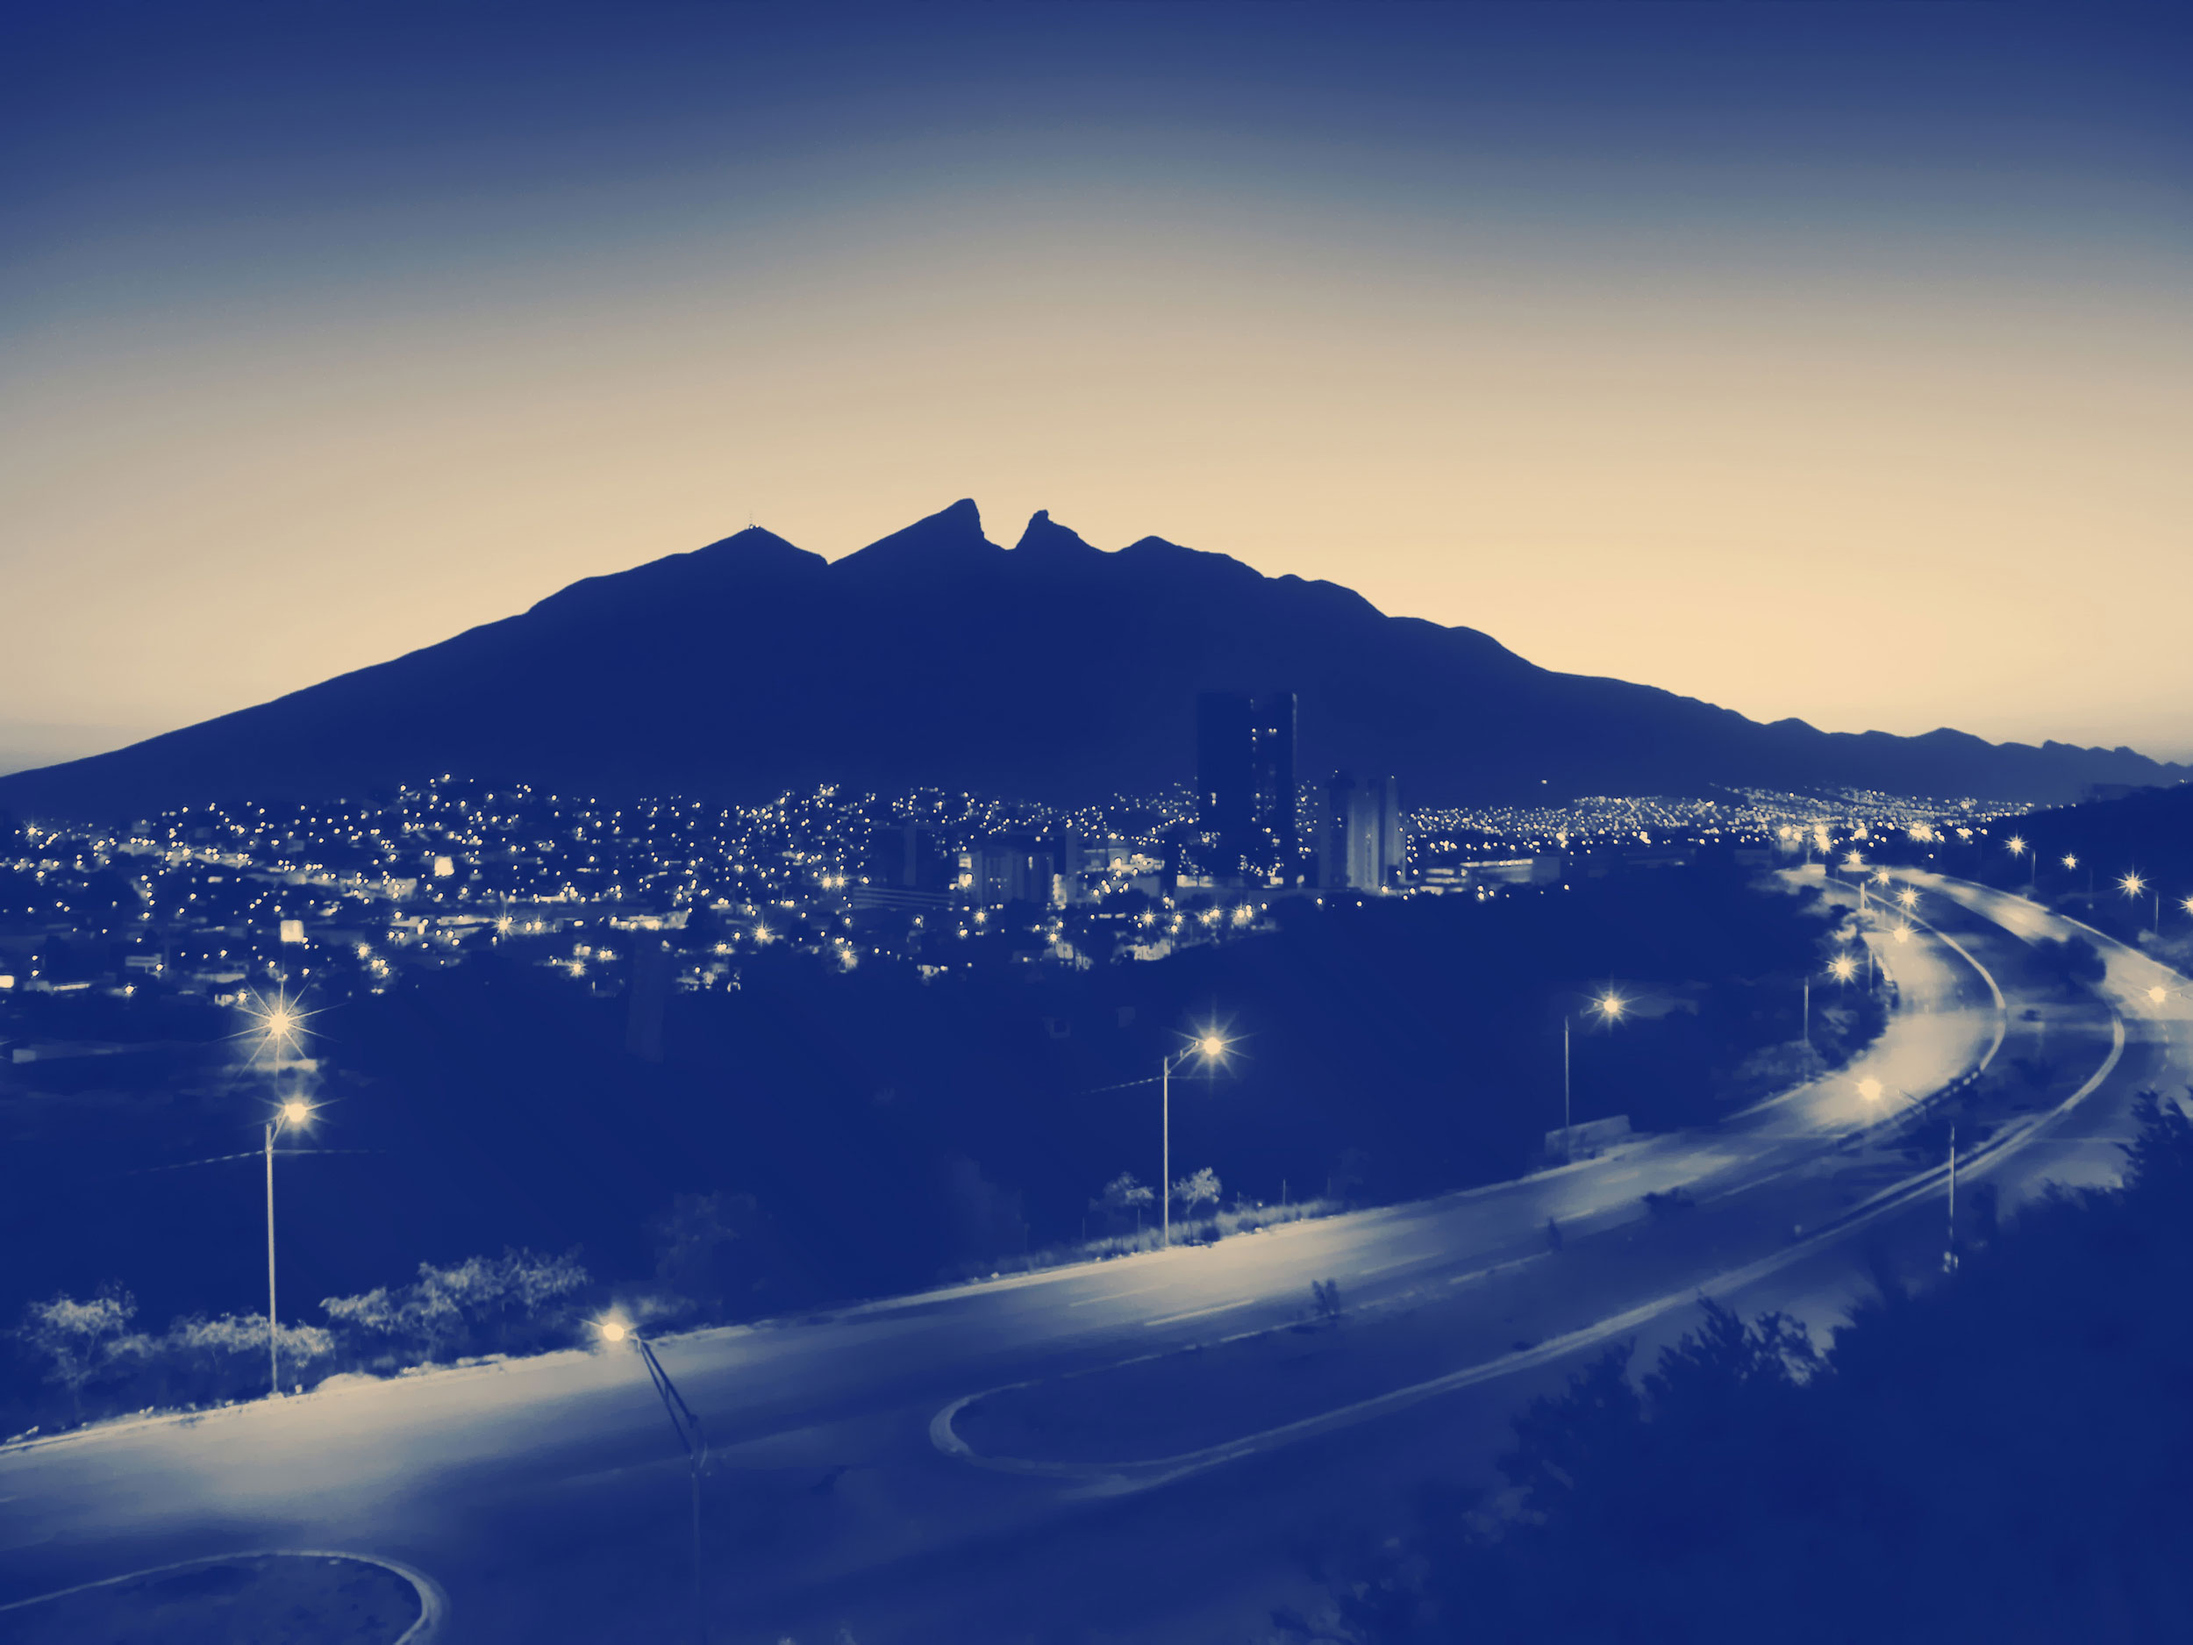
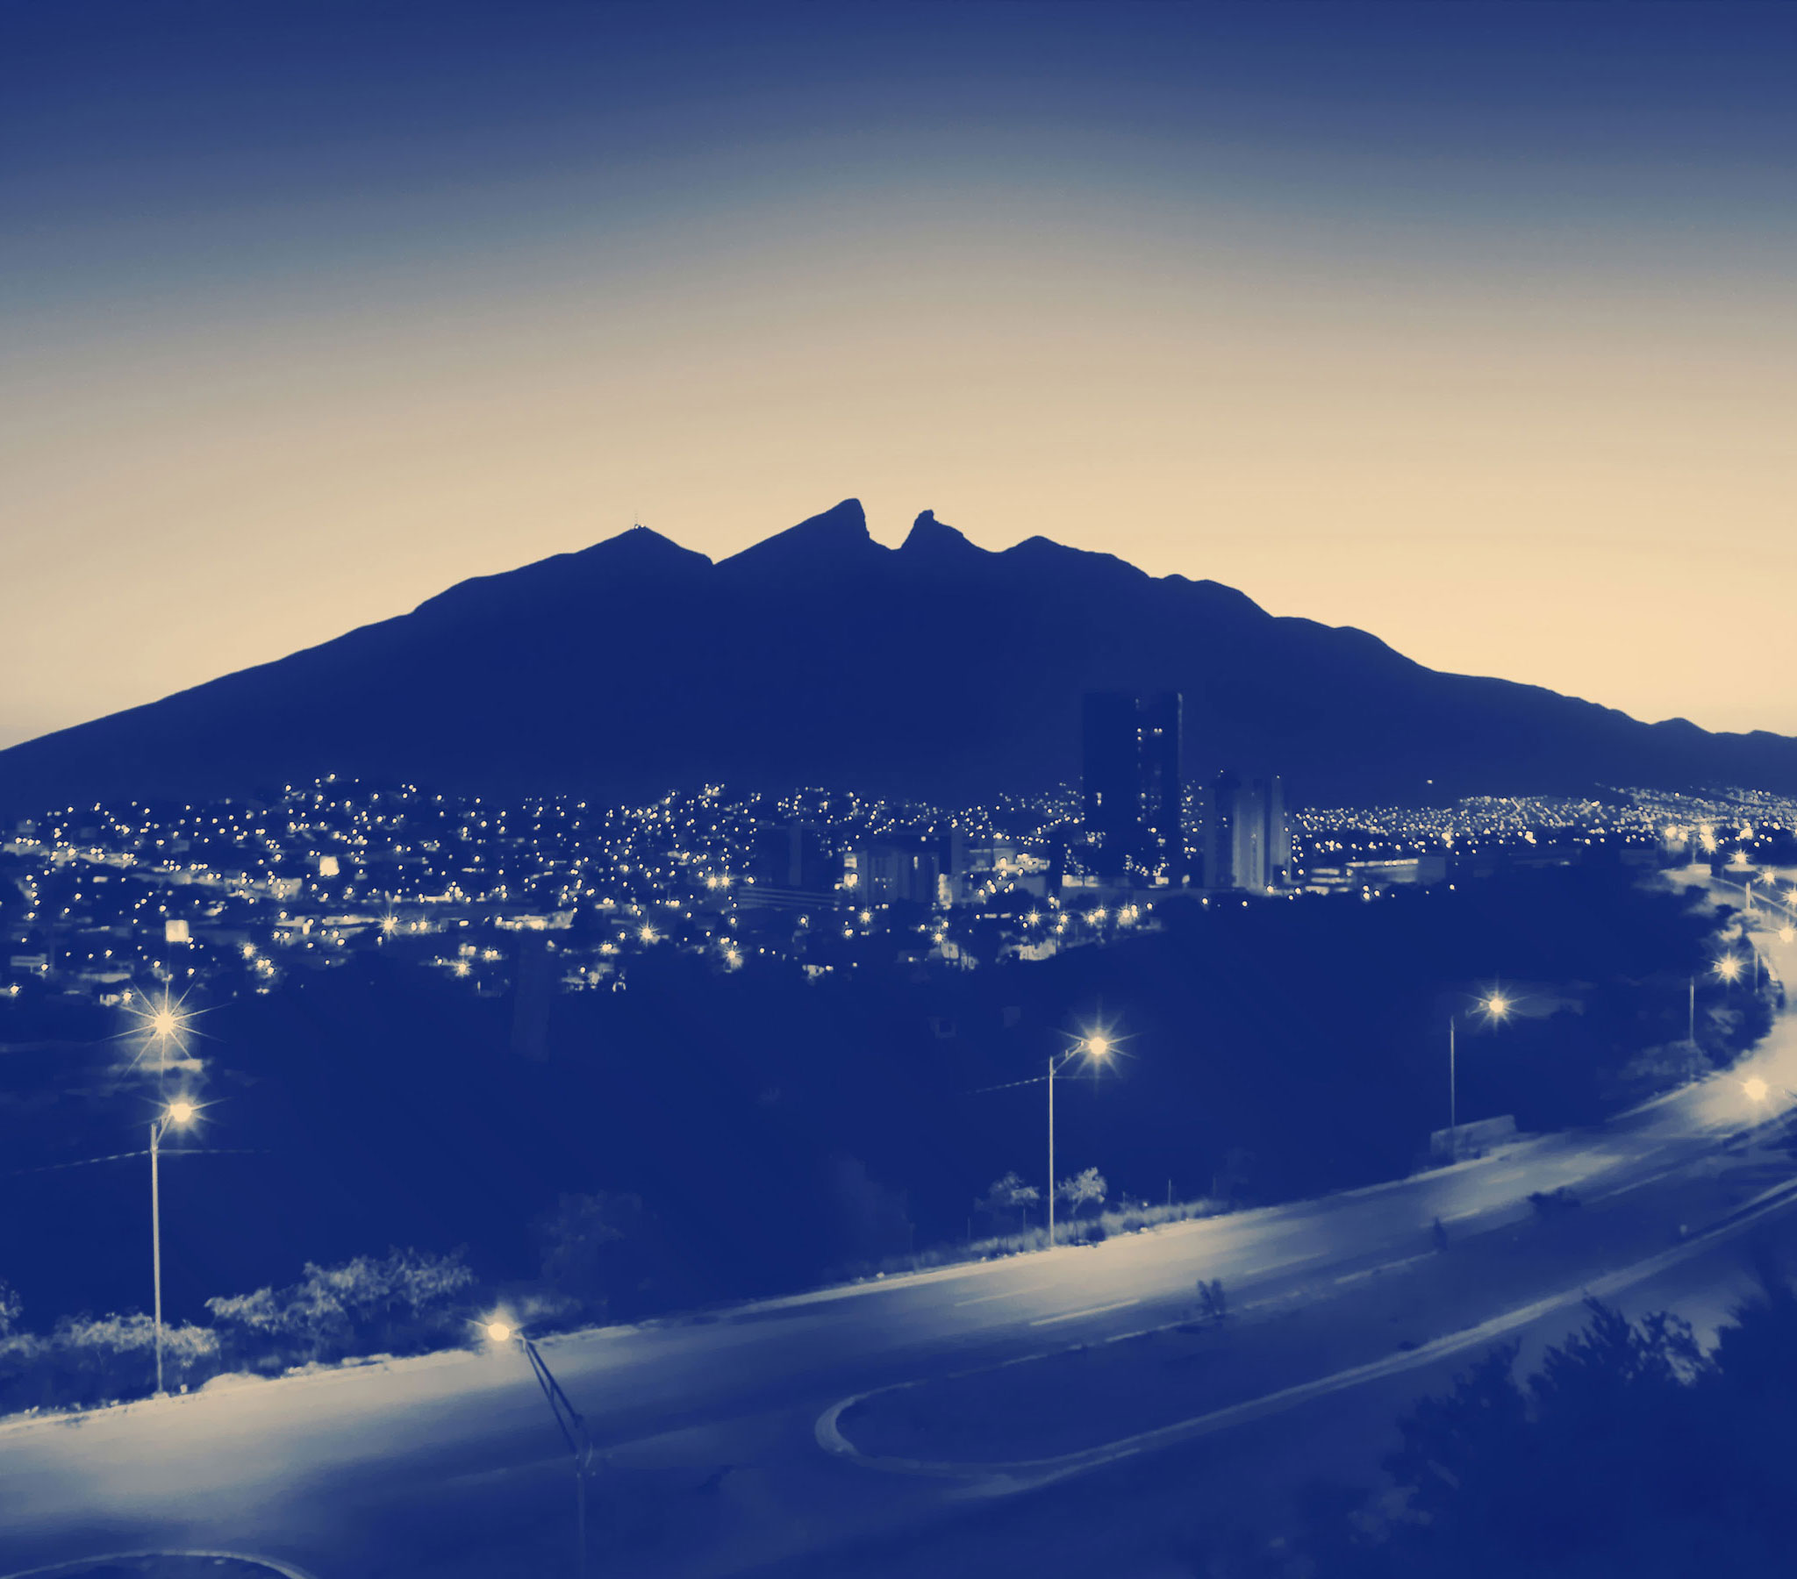
Images Details
Cover image substituted, eala logo for mobile implemented

diff --git a/code/css/style.css b/code/css/style.css
@@ -317,6 +317,16 @@ ul#menu-main > li:nth-child(6) > a:hover {
 /* ---------------------------------------------------------------------------------------------------------- 
 05 Single-Page Sections ------------------------------------------------------------
 ---------------------------------------------------------------------------------------------------------- */
+.eala-logo {
+	display: block;
+  text-indent: -9999px;
+  width: 194px;
+  height: 50px;
+  background: url(../img/logos/eala-logo.svg);
+  background-size: 200px 50px;
+  background-repeat: no-repeat;
+}
+
 #headerwrap {
 	width: 100%;
 	background: url(../img/stages/2.jpg) #fff no-repeat center center fixed;
@@ -331,7 +341,7 @@ ul#menu-main > li:nth-child(6) > a:hover {
 }
 #headerwrap.bratislava
     {
-    background: url(../img/Bratislava.jpg) #fff no-repeat center center fixed;
+    background: url(../img/Bratislava.jpg) #fff no-repeat center 85% fixed;
     -webkit-background-size: cover;
 	-moz-background-size: cover;
 	-o-background-size: cover;
@@ -340,16 +350,16 @@ ul#menu-main > li:nth-child(6) > a:hover {
 
 #headerwrap.argentina
     {
-    background: url(../img/stages/1.jpg) #fff no-repeat center center fixed;
+    background: url(../img/Argentina.jpg) #fff no-repeat center 85% fixed;
     -webkit-background-size: cover;
 	-moz-background-size: cover;
 	-o-background-size: cover;
 	background-size: cover;
     }
 
-#headerwrap.casa-blanca
+#headerwrap.casablanca
     {
-    background: url(../img/Casa-blanca.jpg) #fff no-repeat center center fixed;
+    background: url(../img/Casablanca.jpg) #fff no-repeat center 70% fixed;
     -webkit-background-size: cover;
 	-moz-background-size: cover;
 	-o-background-size: cover;

diff --git a/code/monterrey.html b/code/monterrey.html
@@ -57,12 +57,11 @@
             
             	<span class="icon-bar"></span> <span class="icon-bar"></span> <span class="icon-bar"></span> 
                 
-            </a>
-            
             <h1 class="brand">
-                <a href="index.html">
-                	<img src="img/logos/eala-logo.svg"  alt="EALA logo">
-				</a>
+              <a href="index.html" class="eala-logo">
+                <!-- <img src="img/logos/eala-logo.svg"  alt="EALA logo"> -->
+                EALA LOGO
+              </a>
             </h1>
             
             <!-- Responsive Navbar Part 2: Place all navbar contents you want collapsed withing .navbar-collapse.collapse. -->

diff --git a/code/argentina.html b/code/argentina.html
@@ -60,9 +60,10 @@
             </a>
             
             <h1 class="brand">
-                <a href="index.html">
-                	<img src="img/logos/eala-logo.svg"  alt="EALA logo">
-				</a>
+              <a href="index.html" class="eala-logo">
+                <!-- <img src="img/logos/eala-logo.svg"  alt="EALA logo"> -->
+                EALA LOGO
+              </a>
             </h1>
             
             <!-- Responsive Navbar Part 2: Place all navbar contents you want collapsed withing .navbar-collapse.collapse. -->

diff --git a/code/casa.html b/code/casa.html
@@ -60,9 +60,10 @@
             </a>
             
             <h1 class="brand">
-                <a href="index.html">
-                	<img src="img/logos/eala-logo.svg"  alt="EALA logo">
-				</a>
+              <a href="index.html" class="eala-logo">
+                <!-- <img src="img/logos/eala-logo.svg"  alt="EALA logo"> -->
+                EALA LOGO
+              </a>
             </h1>
             
             <!-- Responsive Navbar Part 2: Place all navbar contents you want collapsed withing .navbar-collapse.collapse. -->

diff --git a/code/bratislava.html b/code/bratislava.html
@@ -60,9 +60,10 @@
             </a>
             
             <h1 class="brand">
-                <a href="index.html">
-                	<img src="img/logos/eala-logo.svg"  alt="EALA logo">
-				</a>
+              <a href="index.html" class="eala-logo">
+                <!-- <img src="img/logos/eala-logo.svg"  alt="EALA logo"> -->
+                EALA LOGO
+  				    </a>
             </h1>
             
             <!-- Responsive Navbar Part 2: Place all navbar contents you want collapsed withing .navbar-collapse.collapse. -->

diff --git a/code/css/bootstrap-responsive.css b/code/css/bootstrap-responsive.css
@@ -896,6 +896,12 @@ section#contact{
 
  @media (max-width: 480px) {
 
+.eala-logo {
+	background: url(../img/logos/eala-logo-mobile.svg);
+  	background-size: 100px 50px;
+  	width: 100px;
+}
+
 section#portfolio .entry-content {
         margin-bottom:0px;
         padding-bottom:0px;
@@ -939,7 +945,7 @@ footer small{
 	
 	}
 .navbar .brand{
-	width:222px;
+	width:100px;
 	padding-top:5px
 	}
 
